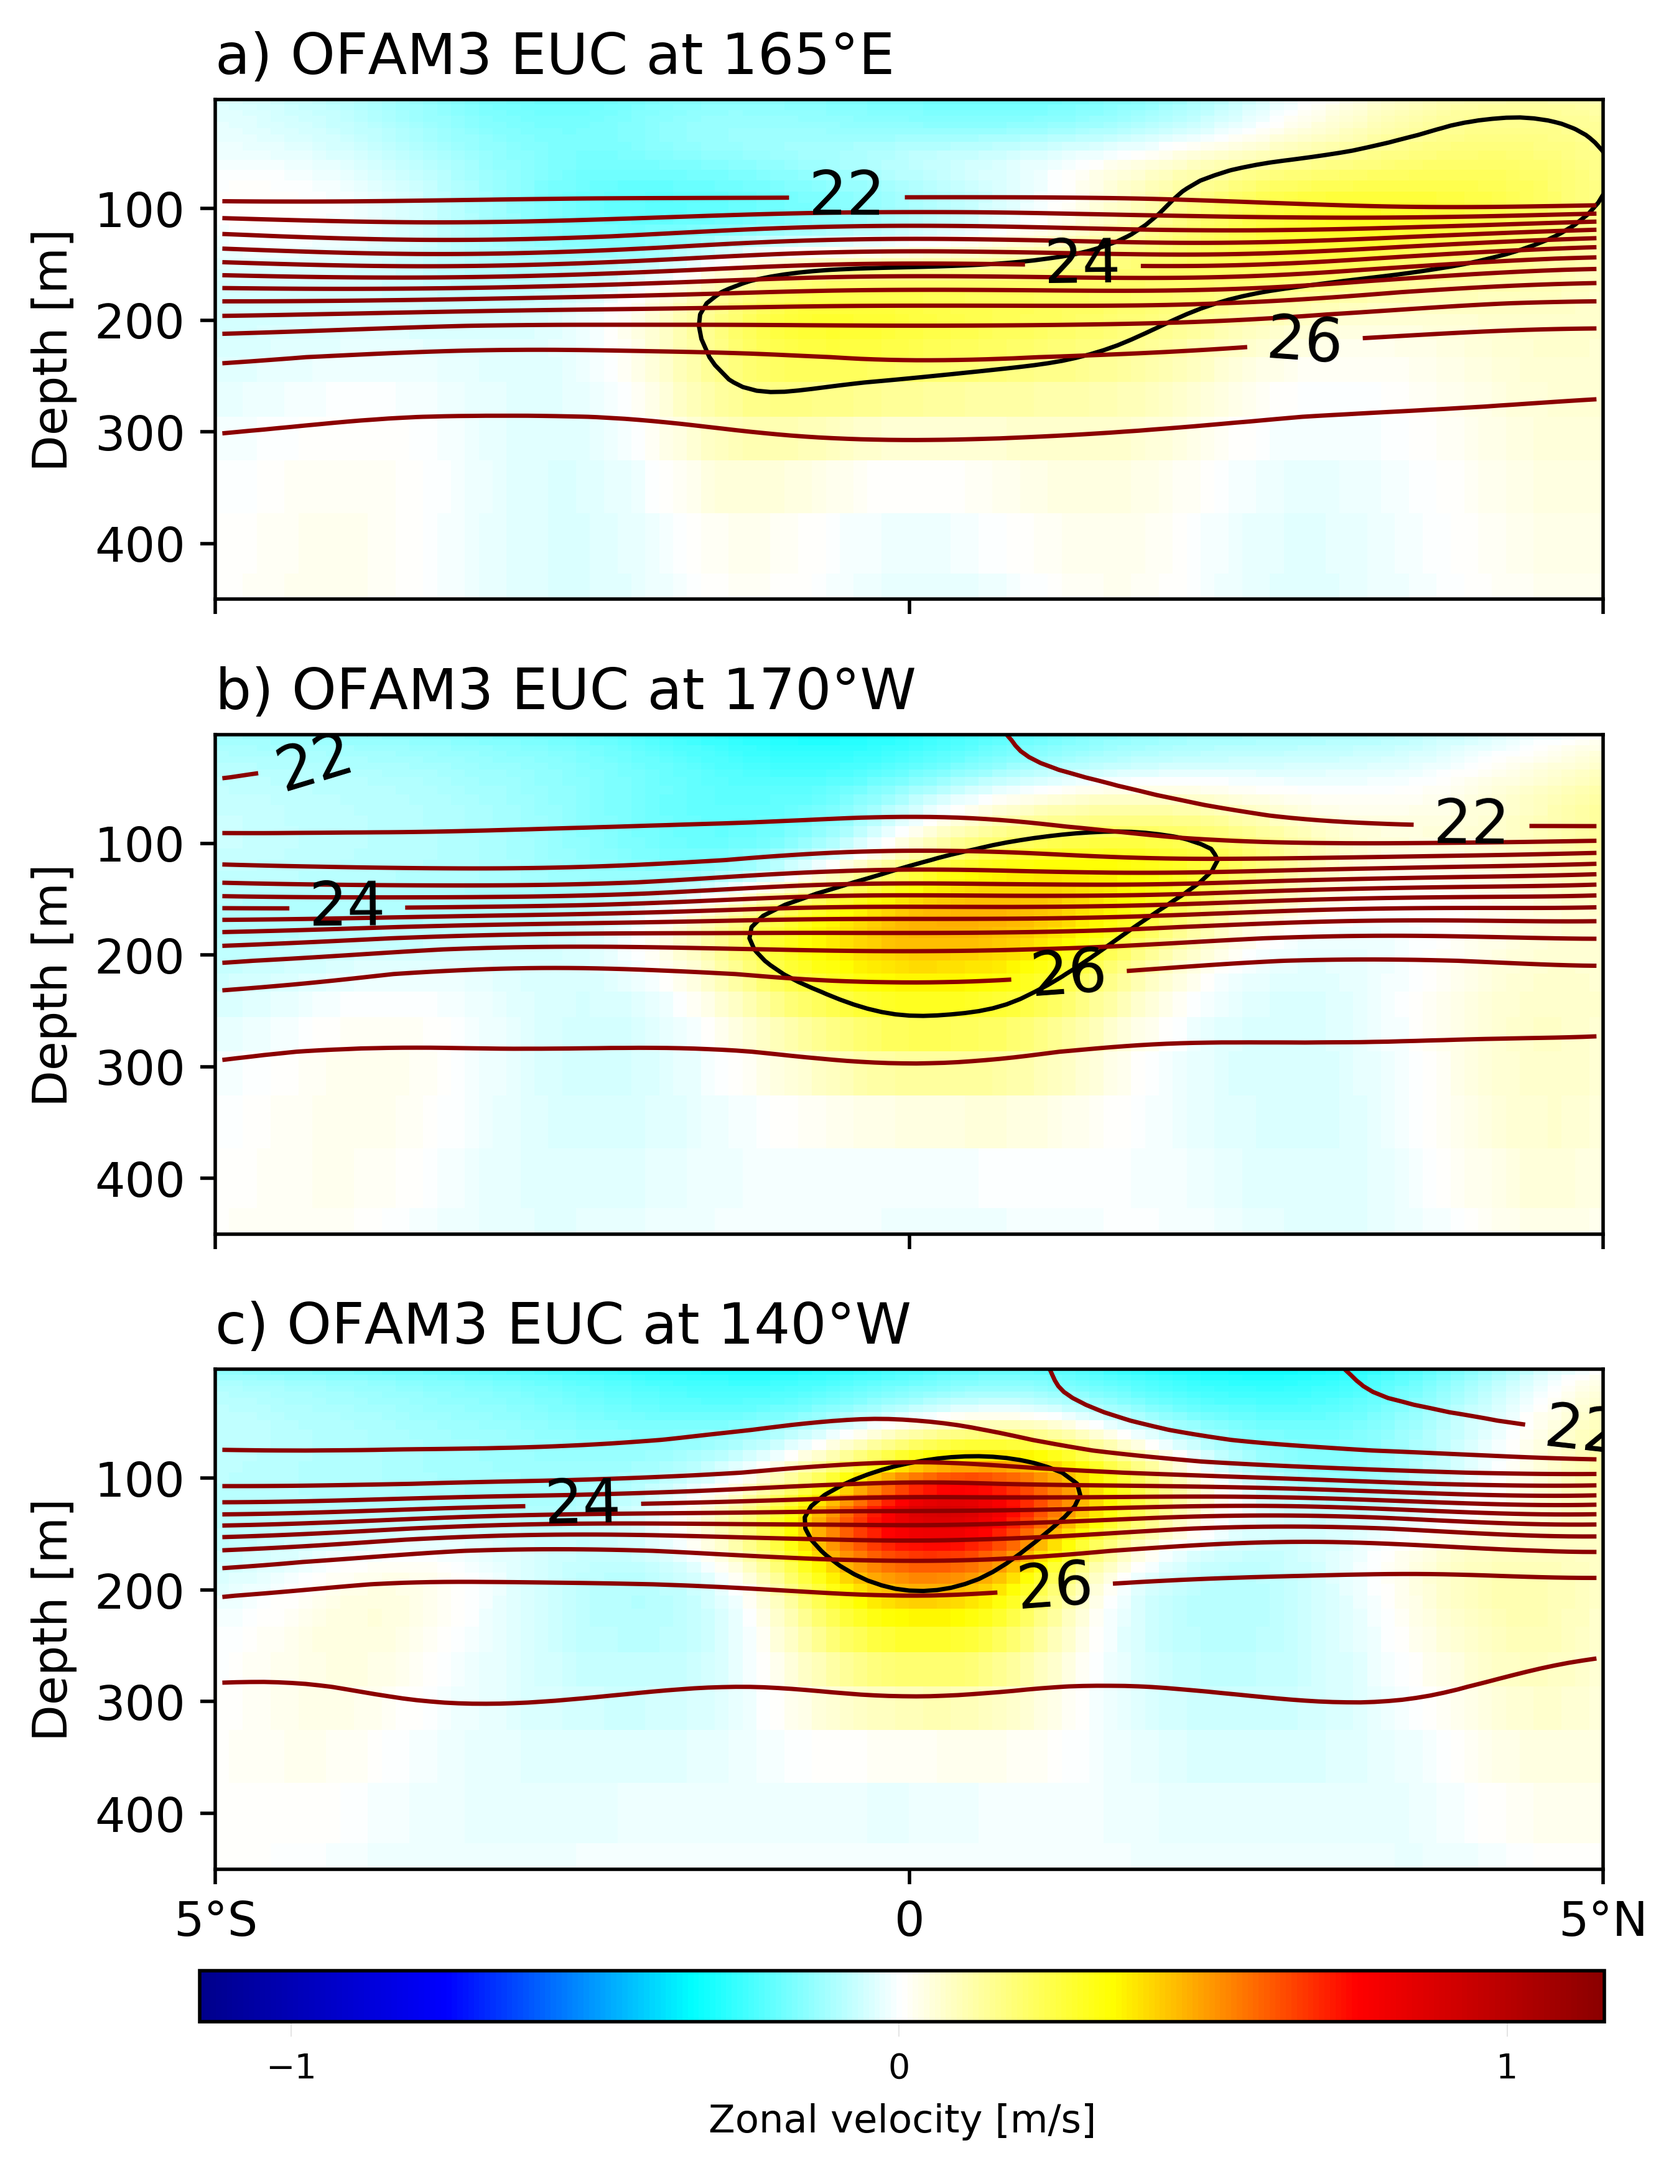
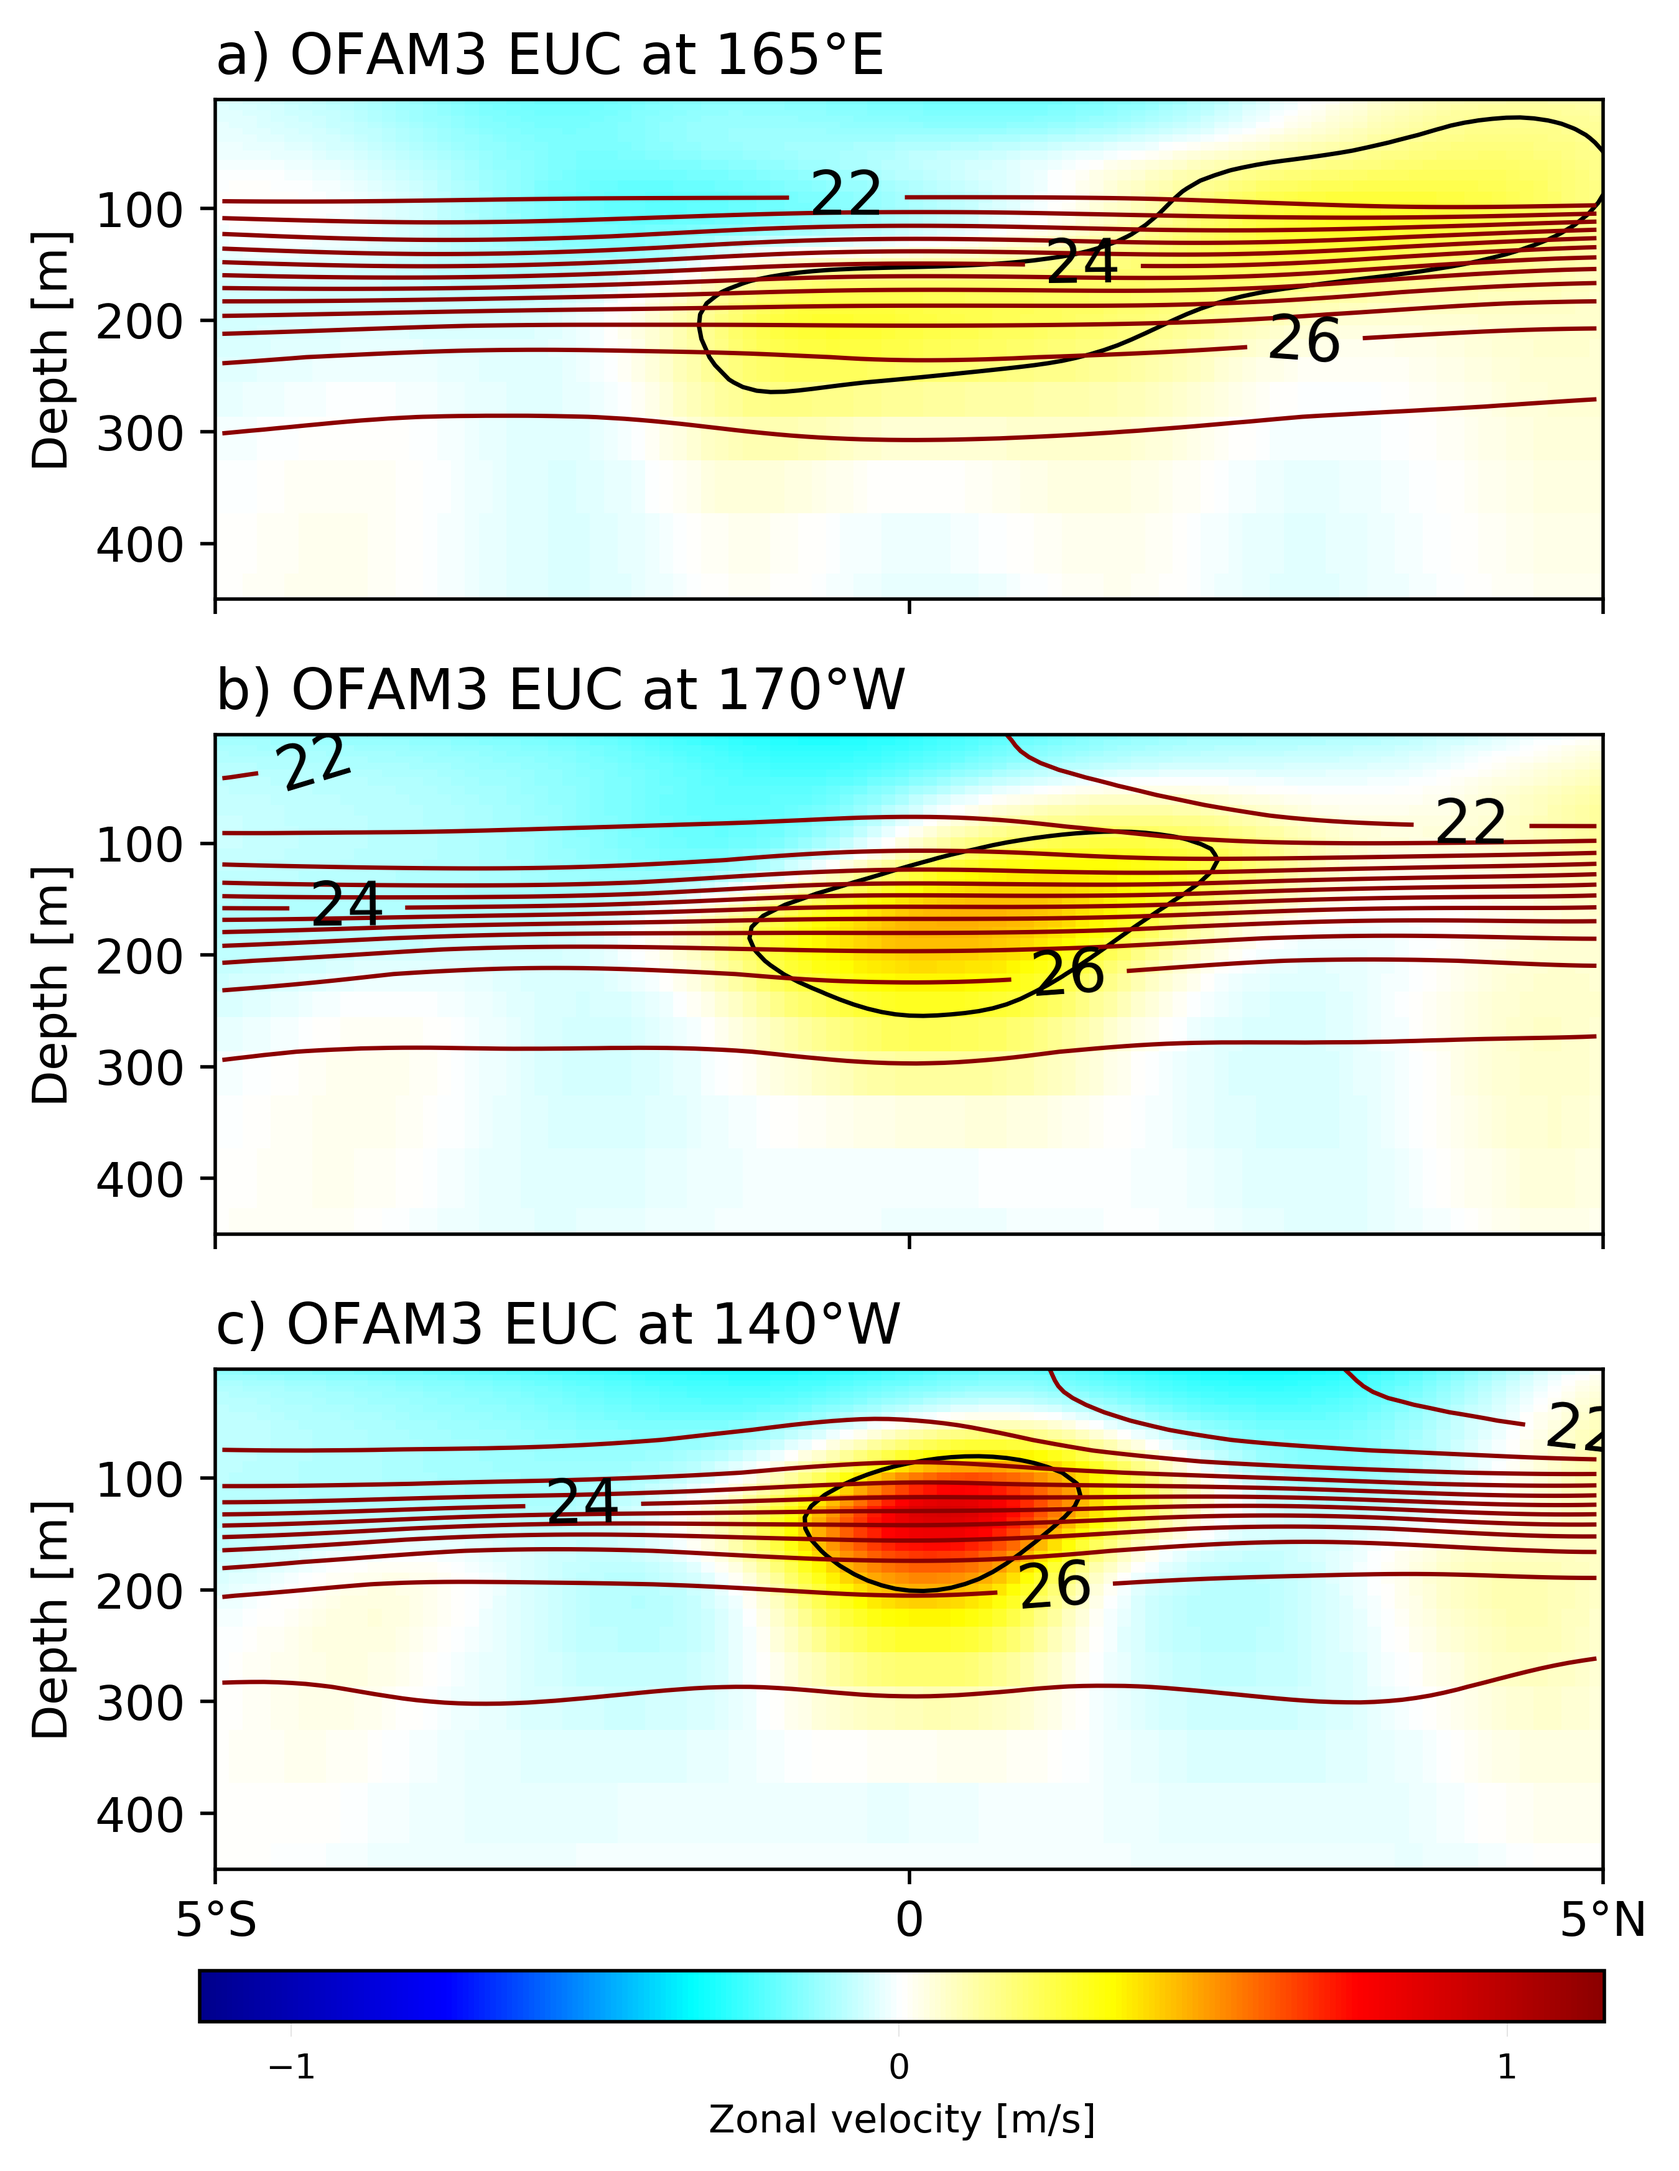
clim fig time change

Changed region(s): [[0.2179, 0.2811, 0.5602, 0.3436], [0.2179, 0.5934, 0.5602, 0.6246], [0.2179, 0.0, 0.5291, 0.0312]]

diff --git a/scripts/valid_plot_EUC_climo_profile.py b/scripts/valid_plot_EUC_climo_profile.py
@@ -17,7 +17,8 @@ from main import paths, im_ext, idx_1d, lx, width, height, LAT_DEG, SV
 
 # Path to save figures, save data and OFAM model output.
 fpath, dpath, xpath, lpath, tpath = paths()
-years = lx['years']  # [[1985, 2000]]
+years = [[1985, 2000], [2070, 2101]]
+# years = lx['years']
 
 # Open zonal velocity historical and future climatologies.
 duh = xr.open_dataset(xpath/('ocean_u_{}-{}_climo.nc'.format(*years[0])))
@@ -72,7 +73,7 @@ def plot_ofam_EUC_profile(du, exp=0, vmax=1.2, dt=None, ds=None,
 
         # Title without including scenario.
         ax.set_title('{}OFAM3 EUC at {} {}'.format(
-            lx['l'][i], lx['lonstr'][ix], tstr), loc='left', fontsize=10)
+            lx['l'][i], lx['lonstr'][ix], tstr), loc='left', fontsize=13)
 
         # Plot zonal velocity.
         cs = ax.pcolormesh(du.yu_ocean, du.st_ocean,
@@ -268,12 +269,12 @@ colors = [[norm(-1.0), "darkblue"],
           [norm(1.0), "darkred"]]
 cmap = matplotlib.colors.LinearSegmentedColormap.from_list("", colors)
 
-# plot_ofam_EUC_profile(duh.u, exp=0, vmax=1.15, dt=dth, ds=dsh,
-#                       isopycnals=True, freq='annual', add_bounds=False,
-#                       cmap=cmap)
-cmap = plt.cm.seismic
+plot_ofam_EUC_profile(duh.u, exp=0, vmax=1.15, dt=dth, ds=dsh,
+                      isopycnals=True, freq='annual', add_bounds=False,
+                      cmap=cmap)
+# cmap = plt.cm.seismic
 # plot_ofam_EUC_profile(duh.u, exp=0, vmax=1, dt=dth, ds=dsh,
 #                       isopycnals=True, freq='mon')
-plot_ofam_EUC_profile(duf.u, exp=1, vmax=1, dt=dtf, ds=dsf,
-                      isopycnals=True, freq='mon')
+# plot_ofam_EUC_profile(duf.u, exp=1, vmax=1, dt=dtf, ds=dsf,
+#                       isopycnals=True, freq='mon')
 # plot_transport(duh, duf)
